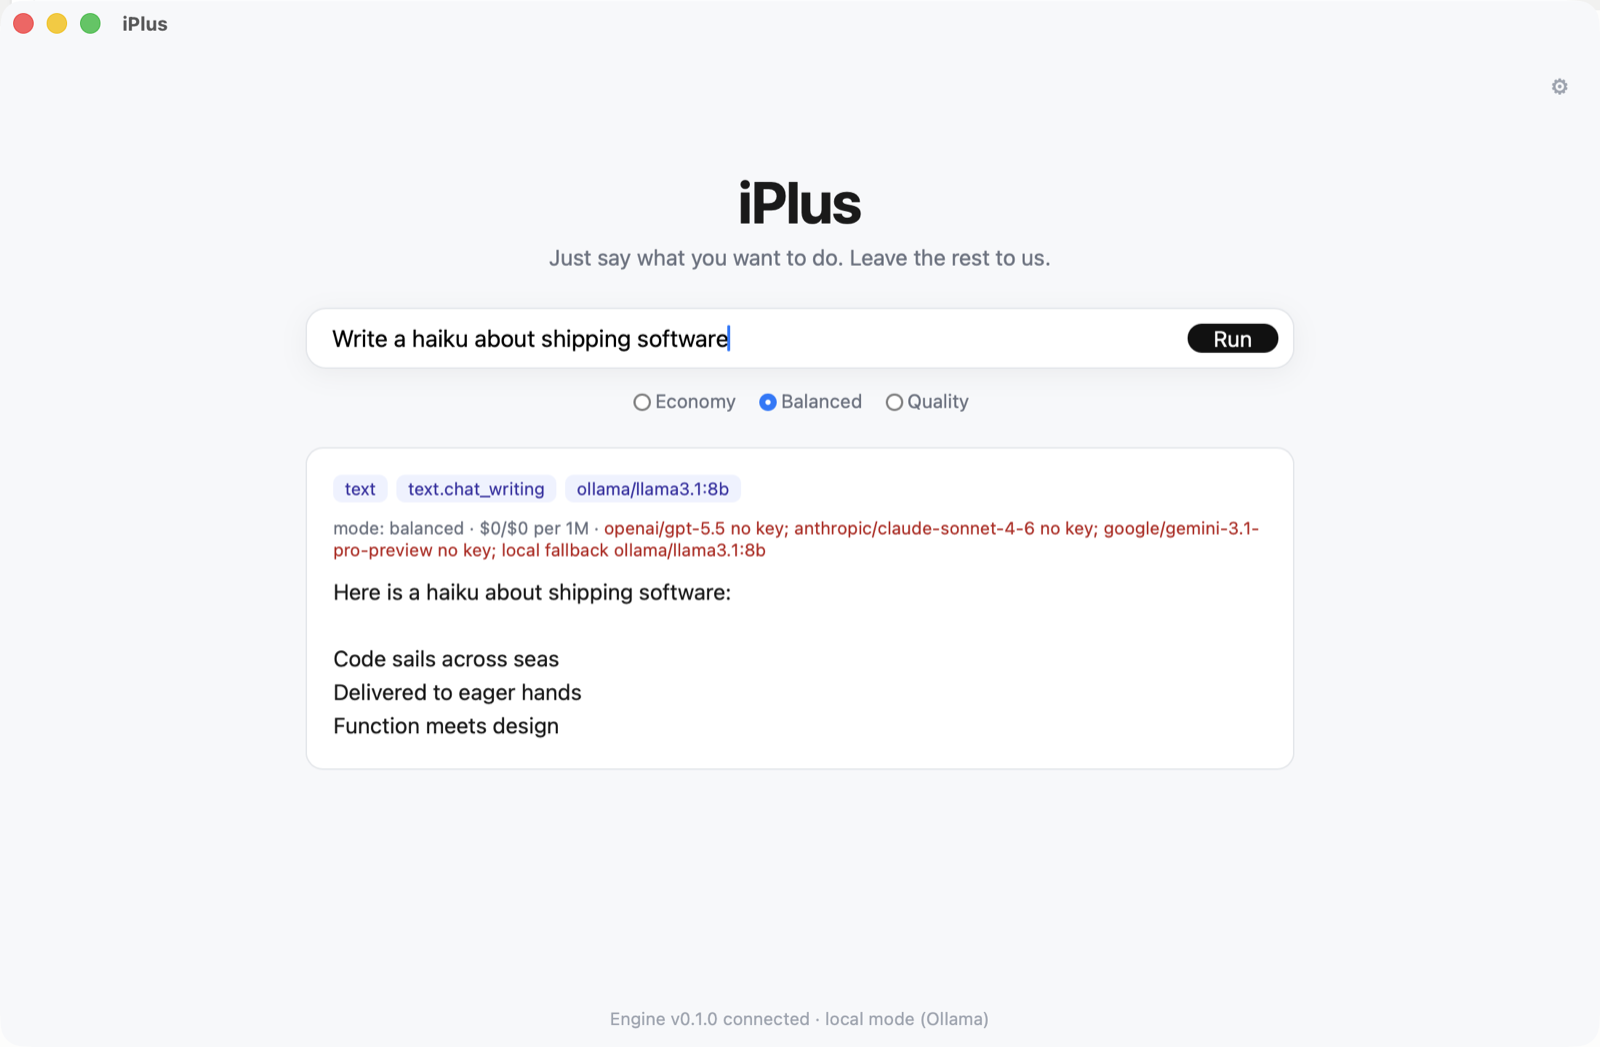
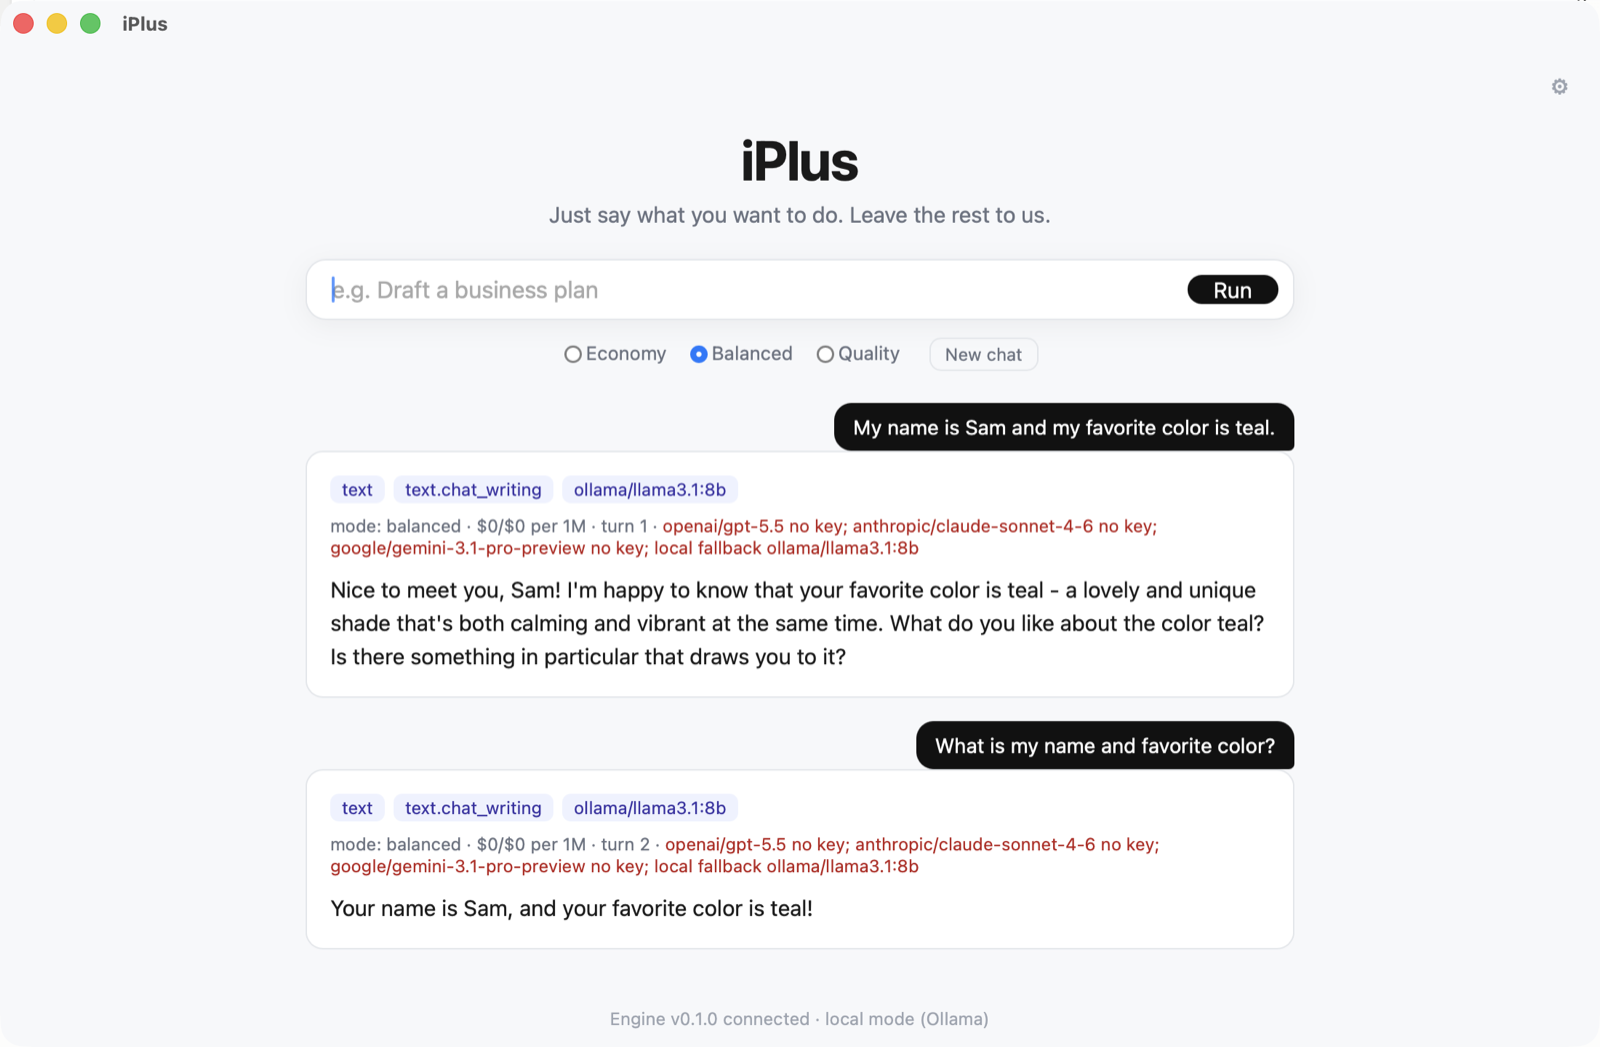
docs: update screenshot to show conversation memory (SCB v1)
Two-turn conversation captured from the rebuilt app: turn 2 recalls facts
from turn 1, demonstrating context retention across turns.

diff --git a/README.md b/README.md
@@ -19,7 +19,7 @@ model. You never need to know model names (GPT, Claude, Gemini, Sora…).
 
 <img src="docs/screenshot.png" alt="iPlus — one-line input routed to a model with a streamed answer" width="720">
 
-<sub>One line in → automatic intent classification → model routing → a streamed answer. Running free on a local model (Ollama), no key.</sub>
+<sub>One line in → intent classification → model routing → a streamed answer, <b>with memory across turns</b>. Running free on a local model (Ollama), no key.</sub>
 
 </div>
 